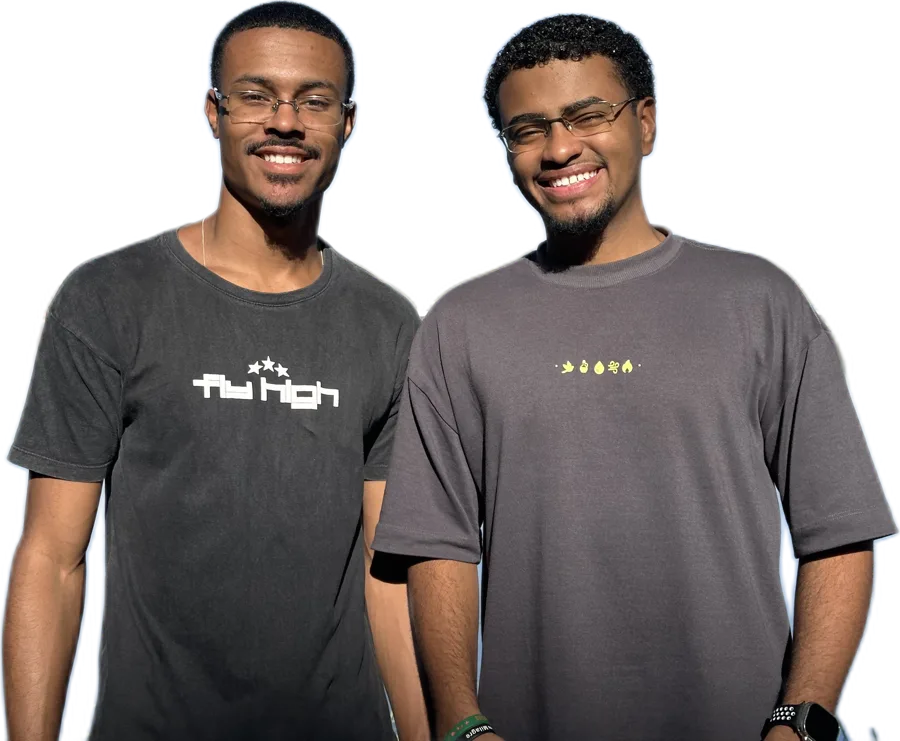
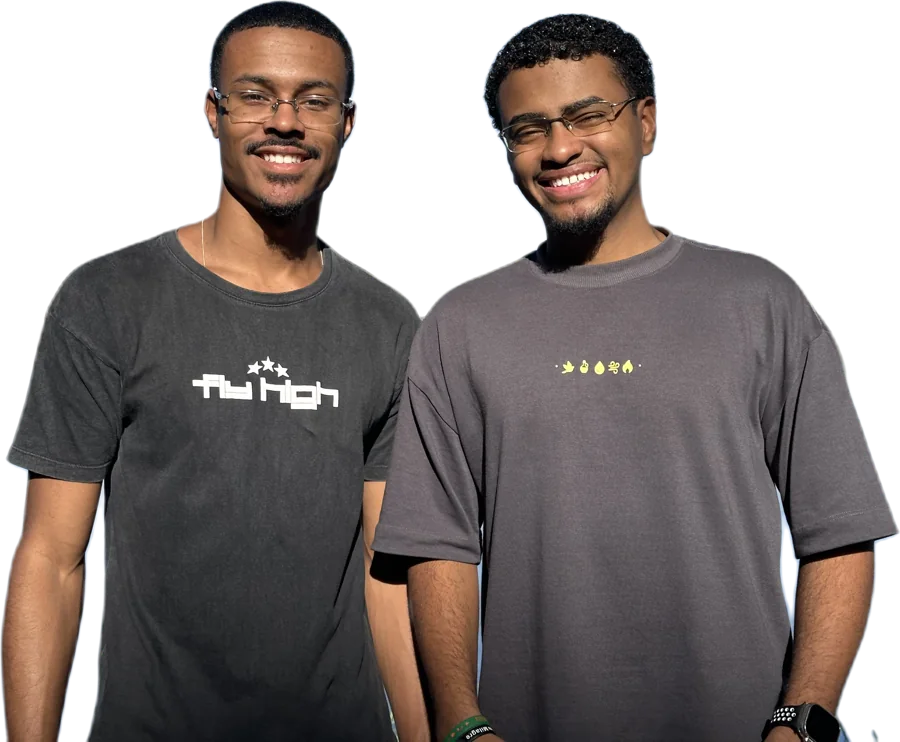
Limpa recorte da foto do topo e troca brilho por halo suave
Claude-Session: https://claude.ai/code/session_014vRRhBBp14td4BXrtKCQVE

diff --git a/index.html b/index.html
@@ -76,7 +76,8 @@ p{margin:0}
 .chip{padding:8px 14px;border:1px solid var(--line);border-radius:999px;font-size:.84rem;color:var(--text);background:rgba(20,17,12,.7)}
 .chip b{color:var(--gold-hi)}
 .hero-art{position:relative;min-width:0}
-.hero-art .people{-webkit-mask-image:linear-gradient(to bottom,#000 78%,transparent);mask-image:linear-gradient(to bottom,#000 78%,transparent);position:relative;z-index:2;width:100%;filter:drop-shadow(0 0 22px rgba(201,165,92,.25))}
+.hero-art::before{content:"";position:absolute;z-index:0;left:8%;right:8%;top:12%;bottom:0;border-radius:50%;background:radial-gradient(ellipse at 50% 55%,rgba(201,165,92,.38),rgba(201,165,92,.12) 45%,transparent 70%);filter:blur(28px);pointer-events:none}
+.hero-art .people{-webkit-mask-image:linear-gradient(to bottom,#000 80%,transparent);mask-image:linear-gradient(to bottom,#000 80%,transparent);position:relative;z-index:2;width:100%;filter:drop-shadow(0 0 2px rgba(240,220,168,.35))}
 .hero-art .pl{position:absolute;z-index:1;width:36%;filter:drop-shadow(0 16px 24px rgba(0,0,0,.6))}
 .hero-art .pl.a{left:-10%;top:18%;transform:rotate(-12deg)}
 .hero-art .pl.b{right:-6%;top:8%;transform:rotate(10deg)}
